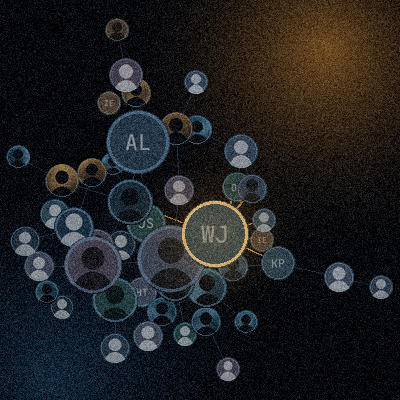
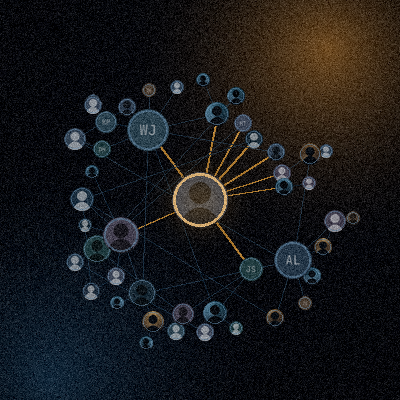
Match the brand plates to the radial network, add a token mark
Port the layout change from lib/graph.ts into scripts/brand.py so the
generated plates draw the same graph the site now draws: rooted on the
most-connected node, rings spaced by a blend of depth and population,
the hub oversized with its edges lit.

Add public/token/mark.png, the wordless square logo the token itself
carries, plus a 128px copy for wallet lists. It is one file for any
ticker rather than one per symbol, so it can be minted against before
the ticker is settled.

The square plates are scaled to fit the disc: the old force-directed
layout filled its bounding box, the radial one does not, so the
previous scale factors pushed the outer ring off the canvas.

Changed region(s): [[0.03, 0.03, 0.99, 0.93], [0.54, 0.87, 0.6, 0.96], [0.0, 0.36, 0.09, 0.42]]

diff --git a/scripts/brand.py b/scripts/brand.py
@@ -9,11 +9,12 @@ cannot drift apart.
 
 Run: python3 scripts/brand.py   (fonts fetched into scripts/fonts/)
 """
-import math, random
+import math, os, random
 import numpy as np
 from PIL import Image, ImageDraw, ImageFilter, ImageFont
 
 OUT = "public/brand"
+TOKEN_OUT = "public/token"
 COLD_100 = (195, 204, 217); COLD_300 = (110, 125, 147); COLD_350 = (132, 150, 171)
 AMBER = (232, 163, 61); AMBER_SOFT = (242, 197, 132); FB = (59, 89, 152)
 INK = (5, 7, 13); INK_RAISE = (17, 23, 37); TEAL = (23, 56, 63)
@@ -224,48 +225,105 @@ def circular(img):
 
 
 def build_graph(count, seed=7):
-    """Preferential attachment, then force-directed. Ported from lib/graph.ts."""
+    """Preferential attachment, then a radial layout. Ported from lib/graph.ts.
+
+    Returns positions normalised into roughly [-1, 1], the edges, each node's
+    degree, and the index of the hub the drawing is rooted on.
+    """
     s = [seed]
     def rand():
         s[0] = (s[0] * 1664525 + 1013904223) % 4294967296
         return s[0] / 4294967296
 
-    edges = []; degree = [0] * count
+    edges = []
+    degree = [0] * count
+    neighbours = [[] for _ in range(count)]
     for i in range(1, count):
         links = 1 if i < 4 else (2 if rand() < 0.35 else 1)
         chosen = set()
         for _ in range(links):
             total = sum(degree[j] + 1 for j in range(i))
-            pick = rand() * total; target = 0
+            pick = rand() * total
+            target = 0
             for j in range(i):
                 pick -= degree[j] + 1
-                if pick <= 0: target = j; break
+                if pick <= 0:
+                    target = j
+                    break
             if target not in chosen:
-                chosen.add(target); edges.append((i, target)); degree[i] += 1; degree[target] += 1
+                chosen.add(target)
+                edges.append((i, target))
+                degree[i] += 1
+                degree[target] += 1
+                neighbours[i].append(target)
+                neighbours[target].append(i)
 
-    pos = np.array([[rand() - 0.5, rand() - 0.5] for _ in range(count)]) * 4.0
-    pos[0] = 0
-    k = 1.15
-    for it in range(260):
-        temp = 0.9 * (1 - it / 260) + 0.02
-        disp = np.zeros_like(pos)
-        diff = pos[:, None, :] - pos[None, :, :]
-        dist = np.maximum(np.linalg.norm(diff, axis=-1), 1e-3)
-        rep = (k * k) / dist
-        np.fill_diagonal(rep, 0)
-        disp += (diff / dist[..., None] * rep[..., None]).sum(1)
-        for a, b in edges:
-            dv = pos[a] - pos[b]; dd = max(np.linalg.norm(dv), 1e-3)
-            f = (dd * dd) / k
-            disp[a] -= dv / dd * f; disp[b] += dv / dd * f
-        ln = np.maximum(np.linalg.norm(disp, axis=1, keepdims=True), 1e-3)
-        pos += disp / ln * np.minimum(ln, temp)
-        pos *= 0.995
+    # Root on the most-connected node: preferential attachment does not
+    # guarantee node 0 becomes the hub.
+    hub = max(range(count), key=lambda i: degree[i])
+    depth = [-1] * count
+    parent = [-1] * count
+    depth[hub] = 0
+    order = []
+    queue = [hub]
+    head = 0
+    while head < len(queue):
+        node = queue[head]; head += 1
+        order.append(node)
+        for nxt in neighbours[node]:
+            if depth[nxt] != -1:
+                continue
+            depth[nxt] = depth[node] + 1
+            parent[nxt] = node
+            queue.append(nxt)
+    max_depth = max(1, max(depth))
+    for i in range(count):
+        if depth[i] == -1:
+            depth[i] = max_depth
+            order.append(i)
 
-    lo, hi = pos.min(0), pos.max(0)
-    pos = (pos - (lo + hi) / 2)
-    pos /= max(np.linalg.norm(hi - lo), 1e-6) / 2.0
-    return pos, edges, degree
+    children = [[] for _ in range(count)]
+    for i in range(count):
+        if parent[i] >= 0:
+            children[parent[i]].append(i)
+
+    # A busy limb earns a wider wedge than a single leaf.
+    weight = [1.0] * count
+    for node in reversed(order):
+        if children[node]:
+            weight[node] = sum(weight[c] for c in children[node])
+
+    angle = [0.0] * count
+    stack = [(hub, 0.0, math.tau)]
+    while stack:
+        node, lo, hi = stack.pop()
+        angle[node] = (lo + hi) / 2
+        cursor = lo
+        for child in children[node]:
+            span = (hi - lo) * (weight[child] / weight[node])
+            stack.append((child, cursor, cursor + span))
+            cursor += span
+
+    # Ring radius blends depth with population, so the sparse deep rings do not
+    # pile up at the rim and the populated ones fill the disc.
+    per_depth = [0] * (max_depth + 1)
+    for i in range(count):
+        per_depth[depth[i]] += 1
+    ring = [0.0] * (max_depth + 1)
+    inner, seen = 0.3, 0
+    for d in range(max_depth + 1):
+        seen += per_depth[d]
+        t = 0.5 * (d / max_depth) + 0.5 * math.sqrt(seen / count)
+        ring[d] = 0.0 if d == 0 else inner + (1 - inner) * t
+
+    pos = np.zeros((count, 2), dtype=np.float32)
+    for i in range(count):
+        r = ring[depth[i]] * (0.94 + rand() * 0.12)
+        a = angle[i] + (rand() - 0.5) * 0.1
+        pos[i] = (math.cos(a) * r, math.sin(a) * r)
+    pos[hub] = (0.0, 0.0)
+
+    return pos, edges, degree, hub
 
 
 def network(w, h, count=120, seed=7, scale=1.0, cx=0.5, cy=0.5, lit=None):
@@ -278,7 +336,9 @@ def network(w, h, count=120, seed=7, scale=1.0, cx=0.5, cy=0.5, lit=None):
         px += np.array(col) * np.clip(1 - d, 0, 1)[:, :, None] ** 2
     img = Image.fromarray(np.clip(px, 0, 255).astype(np.uint8))
 
-    pos, edges, degree = build_graph(count, seed)
+    pos, edges, degree, hub = build_graph(count, seed)
+    if lit is None:
+        lit = hub  # the centre is what the mark is about
     span = min(w, h) * 0.46 * scale
     pts = [(w * cx + p[0] * span, h * cy + p[1] * span) for p in pos]
 
@@ -292,7 +352,7 @@ def network(w, h, count=120, seed=7, scale=1.0, cx=0.5, cy=0.5, lit=None):
     tile_rand = lambda: rand.random()
     order = sorted(range(count), key=lambda i: degree[i])
     for i in order:
-        r = int(max(7, min(30, 7 + degree[i] * 2.1)) * scale)
+        r = int((34 if i == hub else max(7, min(30, 7 + degree[i] * 2.1))) * scale)
         tile = circular(avatar_tile(max(24, r * 4), tile_rand, None).resize((r * 2, r * 2), Image.LANCZOS))
         ring = Image.new("RGBA", tile.size, (0, 0, 0, 0))
         rd = ImageDraw.Draw(ring)
@@ -319,7 +379,7 @@ def wordmark(w=2400, h=620):
 
 
 def avatar(size=400):
-    img = network(size, size, count=46, seed=11, scale=1.35, lit=3)
+    img = network(size, size, count=46, seed=11, scale=0.84)
     return img
 
 
@@ -378,6 +438,16 @@ def quote_card(w=1080, h=1080):
     return img
 
 
+def token_mark(size=512):
+    """The square logo the token itself carries: the network, centred on its hub.
+
+    Deliberately wordless. It is rendered at 24px in a wallet list as often as
+    it is seen full size, so it has to survive as a shape.
+    """
+    img = network(size, size, count=44, seed=11, scale=0.80)
+    return img
+
+
 def palette(w=1600, h=420):
     img = Image.new("RGB", (w, h), INK); d = ImageDraw.Draw(img)
     sw = [("Ink", INK, "#05070D"), ("Ink raise", INK_RAISE, "#111725"), ("Teal shadow", TEAL, "#17383F"),
@@ -393,7 +463,7 @@ def palette(w=1600, h=420):
 
 if __name__ == "__main__":
     print("rain plate…");    rain(1600, 900, t=11.0, seed=1).save(f"{OUT}/rain.png", optimize=True)
-    print("network plate…"); network(1600, 900, count=150, seed=7, scale=1.0, lit=2).save(f"{OUT}/network.png", optimize=True)
+    print("network plate…"); network(1600, 900, count=150, seed=7, scale=0.92).save(f"{OUT}/network.png", optimize=True)
     print("avatar…");        avatar().save(f"{OUT}/avatar.png", optimize=True)
     print("banner…");        banner().save(f"{OUT}/x-banner.png", optimize=True)
     print("og…");            og().save(f"{OUT}/og.png", optimize=True)
@@ -401,4 +471,9 @@ if __name__ == "__main__":
     print("quote card…");    quote_card().save(f"{OUT}/quote-card.png", optimize=True)
     print("wordmark…");      wordmark().save(f"{OUT}/wordmark.png")
     print("palette…");       palette().save(f"{OUT}/palette.png", optimize=True)
+    print("token mark…")
+    os.makedirs(TOKEN_OUT, exist_ok=True)
+    mark = token_mark()
+    mark.save(f"{TOKEN_OUT}/mark.png", optimize=True)
+    mark.resize((128, 128), Image.LANCZOS).save(f"{TOKEN_OUT}/mark-128.png", optimize=True)
     print("done")
